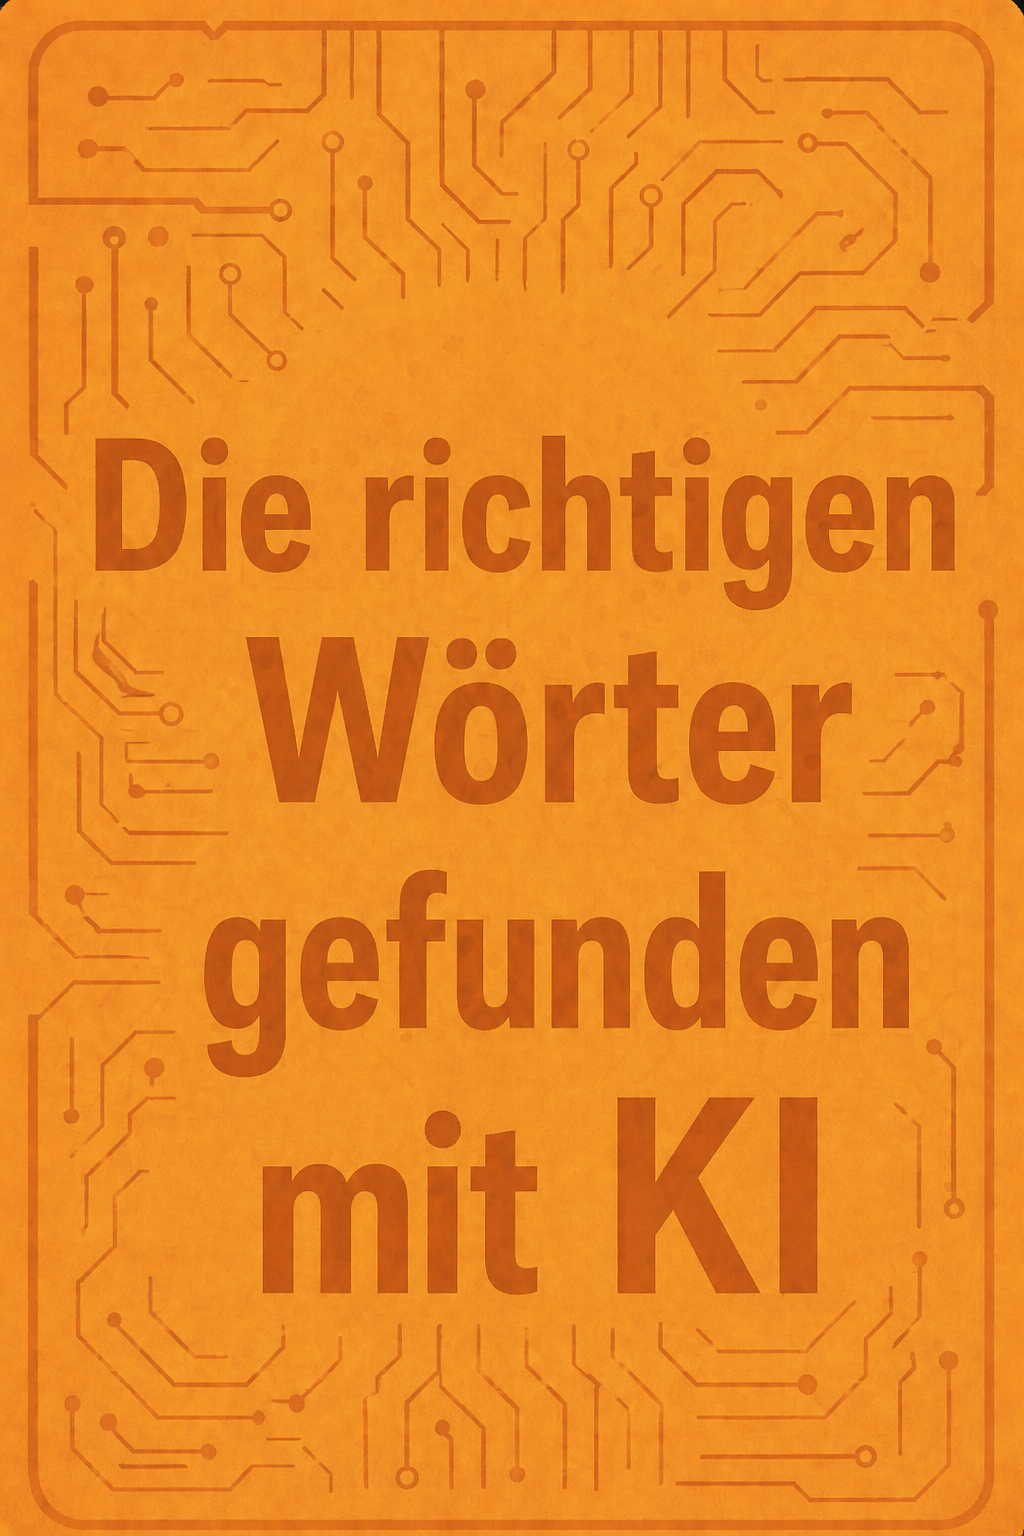
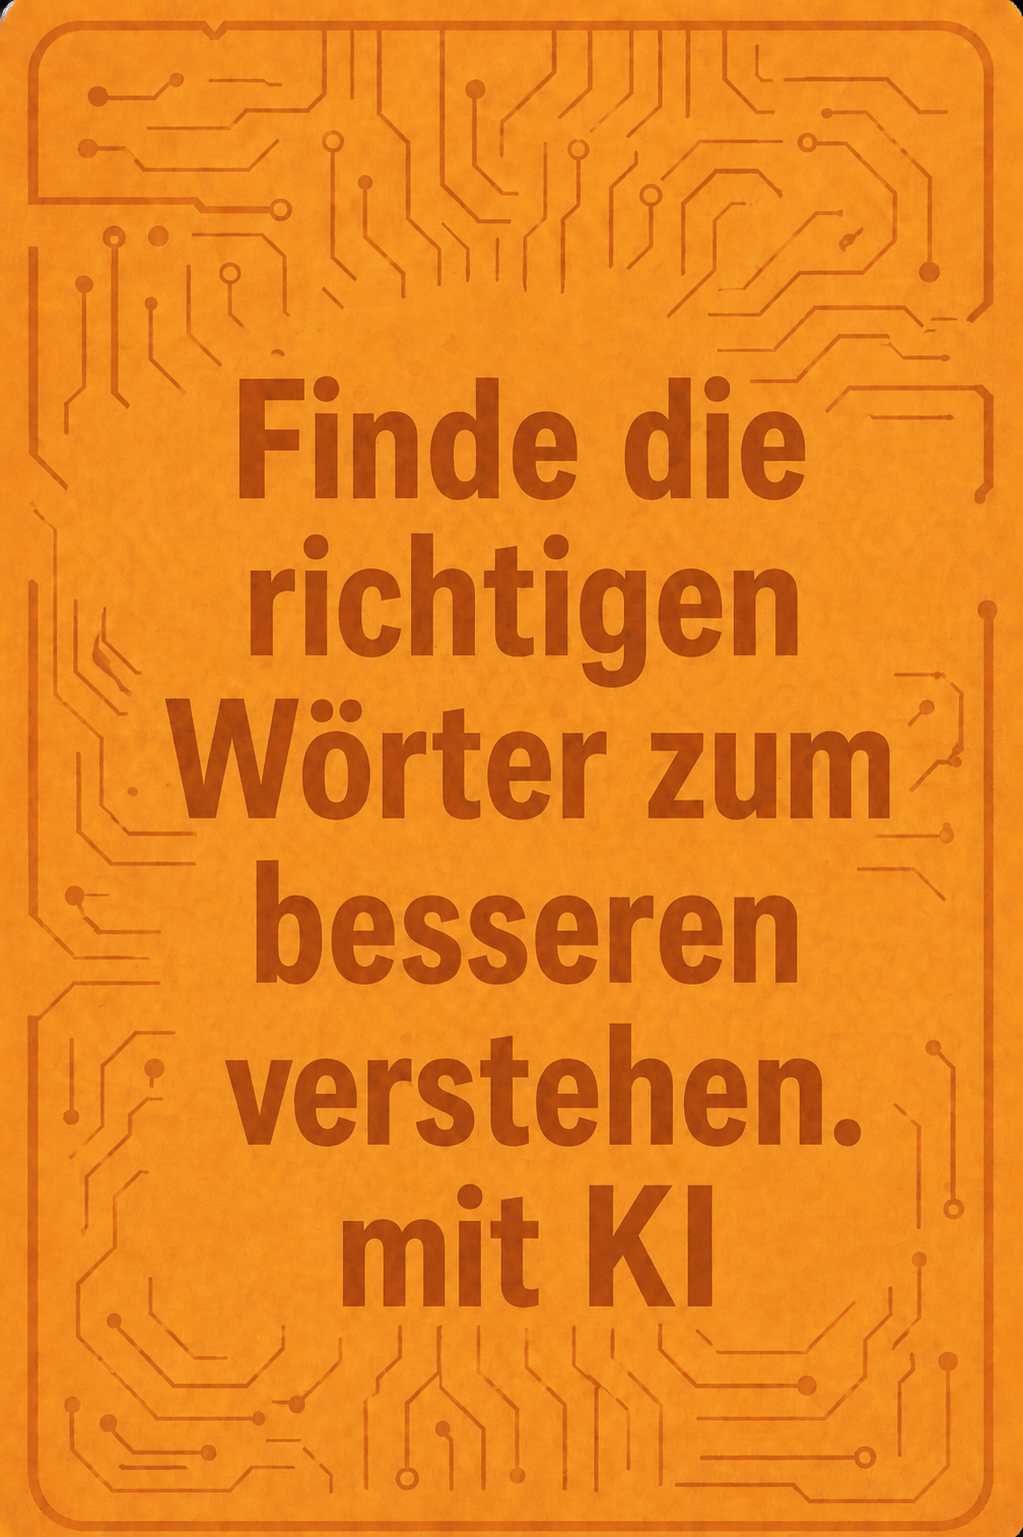
highlight threashoold met

Changed region(s): [[0.0909, 0.2188, 0.9394, 0.875], [0.0, 0.0, 0.0303, 0.0312]]

diff --git a/frontend/src/components/AITaskImageGrid.jsx b/frontend/src/components/AITaskImageGrid.jsx
@@ -10,6 +10,10 @@ const TASKS = AI_TASKS;
 function AITaskImageGrid({ energy }) {
   const hasCelebrated = React.useRef(Array(TASKS.length).fill(false));
 
+  const currentLevelIndex = TASKS.reduce((currentIndex, task, idx) => {
+    return Number(energy) >= Number(task.threshold) ? idx : currentIndex;
+  }, -1);
+
   React.useEffect(() => {
     TASKS.forEach((task, idx) => {
       if (energy >= task.threshold && !hasCelebrated.current[idx]) {
@@ -33,7 +37,8 @@ function AITaskImageGrid({ energy }) {
       justify="center"
     >
       {TASKS.map((task, idx) => {
-        const unlocked = Number(energy) >= task.threshold;
+        const unlocked = Number(energy) >= Number(task.threshold);
+        const isCurrentLevel = idx === currentLevelIndex;
 
         return (
           <VStack
@@ -43,10 +48,15 @@ function AITaskImageGrid({ energy }) {
             spacing="0"
             align="center"
             justify="flex-start"
-            bg="rgba(255,255,255,0.72)"
-            boxShadow="0 6px 14px rgba(0,0,0,0.14)"
-            border="0"
-            p="14px 14px 12px"
+            bg={isCurrentLevel ? "rgba(255, 220, 0, 0.60)" : "rgba(255,255,255,0.72)"}
+            boxShadow={
+              isCurrentLevel
+                ? "0 0 26px rgba(255, 220, 0, 0.60), 0 8px 18px rgba(0,0,0,0.18)"
+                : "0 6px 14px rgba(0,0,0,0.14)"
+            }
+            border={isCurrentLevel ? "4px solid rgba(255, 240, 0, 0.60)" : "0"}
+            p={isCurrentLevel ? "10px 10px 8px" : "14px 14px 12px"}
+            transition="background 0.35s ease, box-shadow 0.35s ease, border 0.35s ease"
           >
             <Box
               w="168px"
@@ -70,7 +80,7 @@ function AITaskImageGrid({ energy }) {
                     display: "block",
                   }}
                   initial={{ opacity: 0, scale: 0.96 }}
-                  animate={{ opacity: 1, scale: 1 }}
+                  animate={{ opacity: 1, scale: isCurrentLevel ? 1.03 : 1 }}
                   exit={{ opacity: 0, scale: 1.04 }}
                   transition={{ duration: 0.35 }}
                 />

diff --git a/frontend/src/components/DashboardLayout.jsx b/frontend/src/components/DashboardLayout.jsx
@@ -332,8 +332,8 @@ function DashboardLayout({ metrics, onStart, onStop, sessionActive }) {
               {/* Bluetooth / ergometer connection indicator */}
         <Box
           position="absolute"
-          left="1470px"
-          top="18px"
+          right="1470px"
+          top="10px"
           w="28px"
           h="28px"
           borderRadius="full"
@@ -429,7 +429,7 @@ function DashboardLayout({ metrics, onStart, onStop, sessionActive }) {
               direction="column"
               align="center"
               justify="center"
-              bg="rgba(255,255,255,0.88)"
+              bg="rgba(255,245,235,0.72)"
               borderRadius="0px"
               border="0"
               boxShadow="0 4px 12px rgba(0,0,0,0.10)"
@@ -482,7 +482,7 @@ function DashboardLayout({ metrics, onStart, onStop, sessionActive }) {
           top="220px"
           w="515px"
           h="228px"
-          bg="rgba(255,238,222,0.88)"
+          bg="rgba(255,245,235,0.72)"
           border="0"
           boxShadow="0 4px 14px rgba(0,0,0,0.12)"
           align="center"
@@ -509,7 +509,7 @@ function DashboardLayout({ metrics, onStart, onStop, sessionActive }) {
               key={logo.src}
               w="155px"
               h="76px"
-              bg="rgba(255,255,255,0.92)"
+              bg="rgba(255,245,235,0.72)"
               align="center"
               justify="center"
               p="8px"

diff --git a/src/api/ble_runner.py b/src/api/ble_runner.py
@@ -51,8 +51,8 @@ MAX_STROKE_INTERVAL = 5.0
 
 # ===== Simulation tunables =====
 SIM_TICK_SECONDS = float(os.getenv("SIM_TICK_SECONDS", "0.2"))
-SIM_DEFAULT_POWER = float(os.getenv("SIM_DEFAULT_POWER", "100"))
-SIM_DEFAULT_CADENCE = float(os.getenv("SIM_DEFAULT_CADENCE", "60"))
+SIM_DEFAULT_POWER = float(os.getenv("SIM_DEFAULT_POWER", "300"))
+SIM_DEFAULT_CADENCE = float(os.getenv("SIM_DEFAULT_CADENCE", "150"))
 SIM_PROFILE = os.getenv("SIM_PROFILE", "constant")  # constant | ramp
 SIM_RAMP_MIN_POWER = float(os.getenv("SIM_RAMP_MIN_POWER", "60"))
 SIM_RAMP_MAX_POWER = float(os.getenv("SIM_RAMP_MAX_POWER", "220"))
